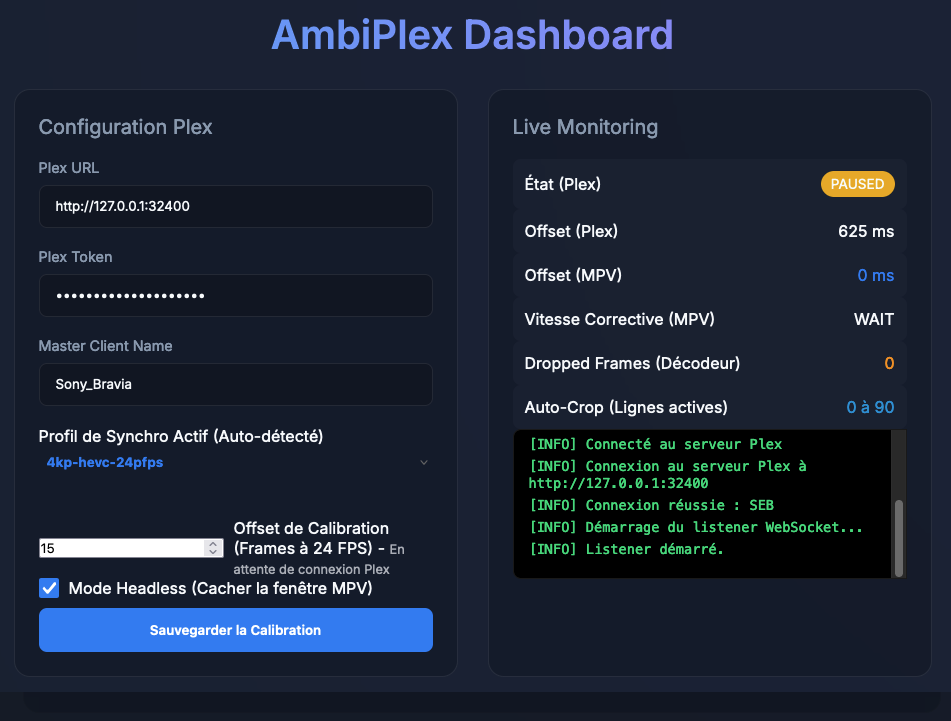
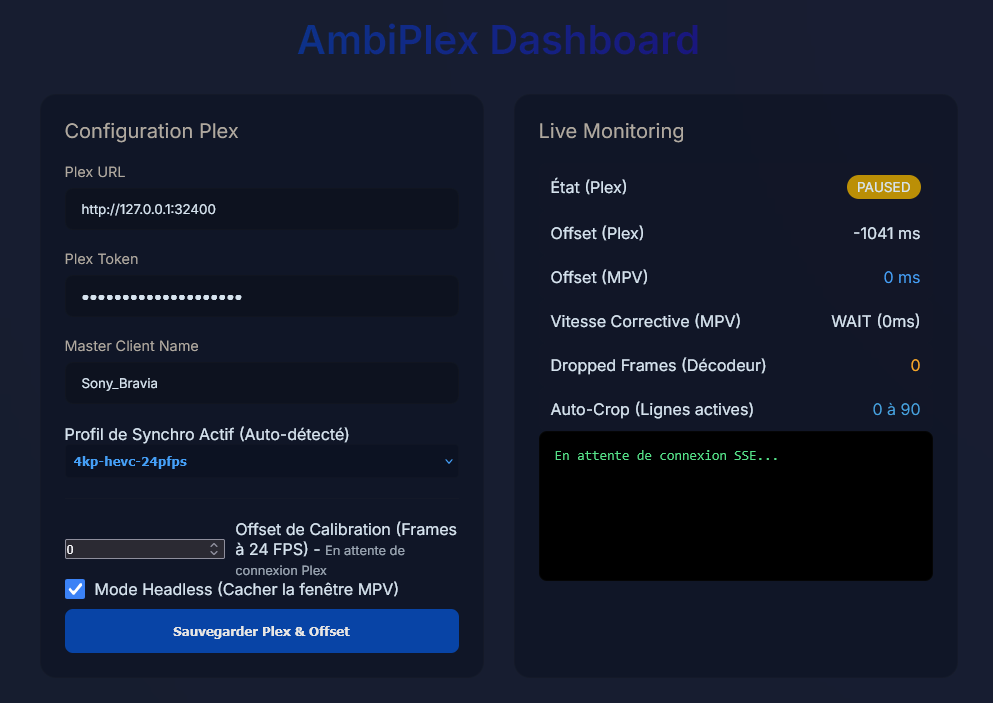
Mobile-friendly UI

diff --git a/static/index.html b/static/index.html
@@ -81,7 +81,7 @@
             <div class="card" style="grid-column: 1 / -1;">
                 <h2>Calibration LEDs & Simulateur</h2>
                 <div style="display: flex; gap: 20px; flex-wrap: wrap;">
-                    <div style="flex: 1; min-width: 300px;">
+                    <div style="flex: 1; min-width: 250px;">
                         <form id="ledForm">
                             <div class="input-group">
                                 <label>Adresse IP WLED</label>
@@ -213,7 +213,7 @@
                         </form>
                     </div>
                     
-                    <div style="flex: 1; min-width: 300px; display: flex; flex-direction: column; align-items: center; justify-content: center; background: rgba(0,0,0,0.3); border-radius: 8px; padding: 20px;">
+                    <div style="flex: 1; min-width: 250px; display: flex; flex-direction: column; align-items: center; justify-content: center; background: rgba(0,0,0,0.3); border-radius: 8px; padding: 20px;">
                         <canvas id="ledSimulator" width="400" height="225" style="background: #111; border: 2px solid var(--border); border-radius: 4px; box-shadow: 0 0 30px rgba(0,0,0,0.8);"></canvas>
                         <p style="margin-top: 10px; font-size: 0.9em; opacity: 0.7;">Simulation en temps réel (DDP)</p>
                     </div>

diff --git a/static/app.js b/static/app.js
@@ -129,7 +129,8 @@ document.addEventListener("DOMContentLoaded", () => {
             offset_right: getVal("offset_right", 0),
             offset_bottom: getVal("offset_bottom", 0),
             offset_left: getVal("offset_left", 0),
-            led_refresh_native: document.getElementById("led_refresh_native") ? document.getElementById("led_refresh_native").checked : true
+            led_refresh_native: document.getElementById("led_refresh_native") ? document.getElementById("led_refresh_native").checked : true,
+            disable_autocrop: document.getElementById("disable_autocrop") ? document.getElementById("disable_autocrop").checked : false
         };
 
         fetch("/api/config", {

diff --git a/static/style.css b/static/style.css
@@ -65,6 +65,24 @@ h2 {
 @media (max-width: 768px) {
     .grid {
         grid-template-columns: 1fr;
+        gap: 20px;
+    }
+    
+    body {
+        padding: 10px;
+    }
+    
+    .glass-container {
+        padding: 20px;
+    }
+    
+    .card {
+        padding: 16px;
+    }
+    
+    h1 {
+        font-size: 2rem;
+        margin-bottom: 20px;
     }
 }
 
@@ -243,4 +261,9 @@ h2 {
     visibility: visible;
     opacity: 1;
     transform: translateX(-50%) translateY(-5px);
+}
+
+canvas#ledSimulator {
+    max-width: 100%;
+    height: auto;
 }

diff --git a/web.py b/web.py
@@ -188,7 +188,7 @@ async def background_sync_loop():
                     "local_offset": sync_instance.local_player_offset,
                     "action": action if action else "SEEK",
                     "dropped_frames": player_instance.get_dropped_frames() if player_instance else 0,
-                    "loop_time_ms": int((time.time() - loop_start_time) * 1000)
+                    "loop_time_ms": int((time.perf_counter() - loop_start_time) * 1000)
                 }
                 
                 # --- EXTRACTION LEDS ---
@@ -220,7 +220,7 @@ async def background_sync_loop():
                     "local_offset": sync_instance.local_player_offset,
                     "action": "WAIT",
                     "dropped_frames": player_instance.get_dropped_frames() if player_instance else 0,
-                    "loop_time_ms": int((time.time() - loop_start_time) * 1000)
+                    "loop_time_ms": int((time.perf_counter() - loop_start_time) * 1000)
                 }
                 
                 # --- EXTRACTION LEDS MEME EN PAUSE ---

diff --git a/README.md b/README.md
@@ -36,5 +36,9 @@ Un système Ambilight ultra-performant et 100% logiciel conçu pour se synchroni
 ## 🛡 Sécurité & Confidentialité
 Aucun secret (Token Plex, IP locale) n'est stocké dans le code source. Toutes les données sensibles sont sauvegardées dans un fichier `config.json` local (qui est ignoré par Git).
 
+## 📸 Galerie
+![Détail de Configuration](screenshot3.png)
+![Résultat de la Synchronisation](screenshot4.png)
+
 ---
 *Conçu par Sébastien Bédard*
